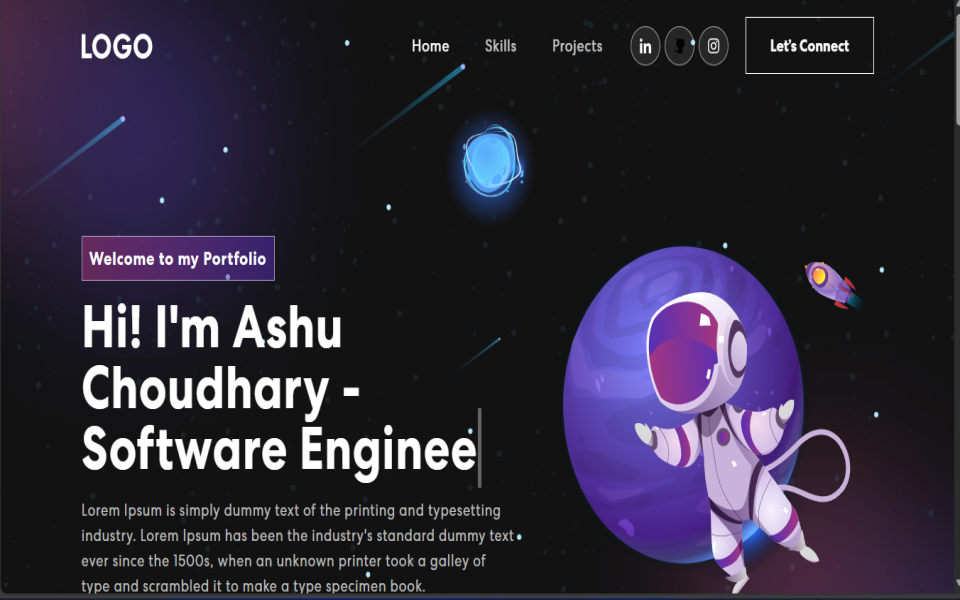
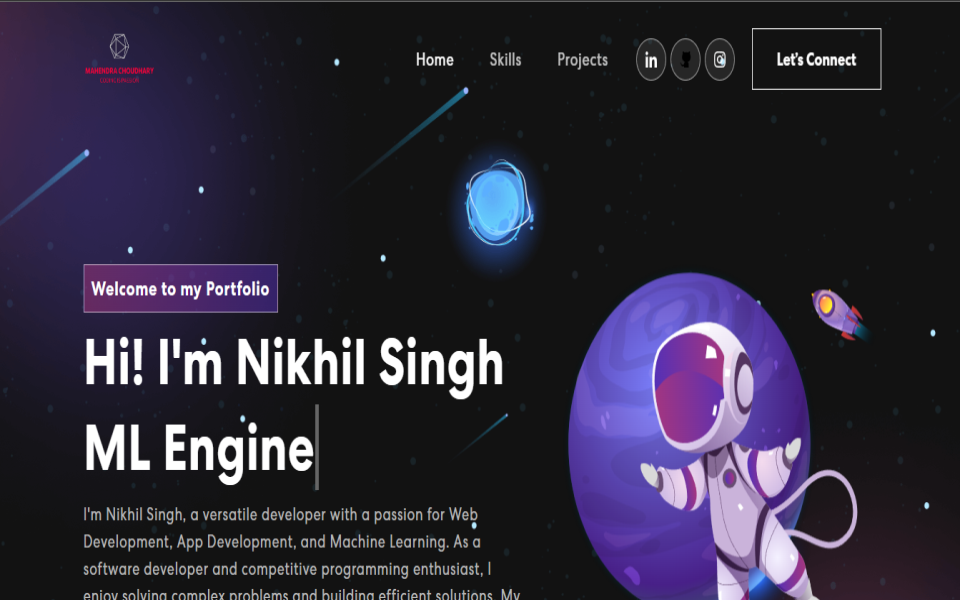
first commit

diff --git a/public/index.html b/public/index.html
@@ -24,7 +24,7 @@
       work correctly both with client-side routing and a non-root public URL.
       Learn how to configure a non-root public URL by running `npm run build`.
     -->
-    <title>Bihari Portfolio</title>
+    <title>Nikhil Portfolio</title>
   </head>
   <body>
     <noscript>You need to enable JavaScript to run this app.</noscript>
